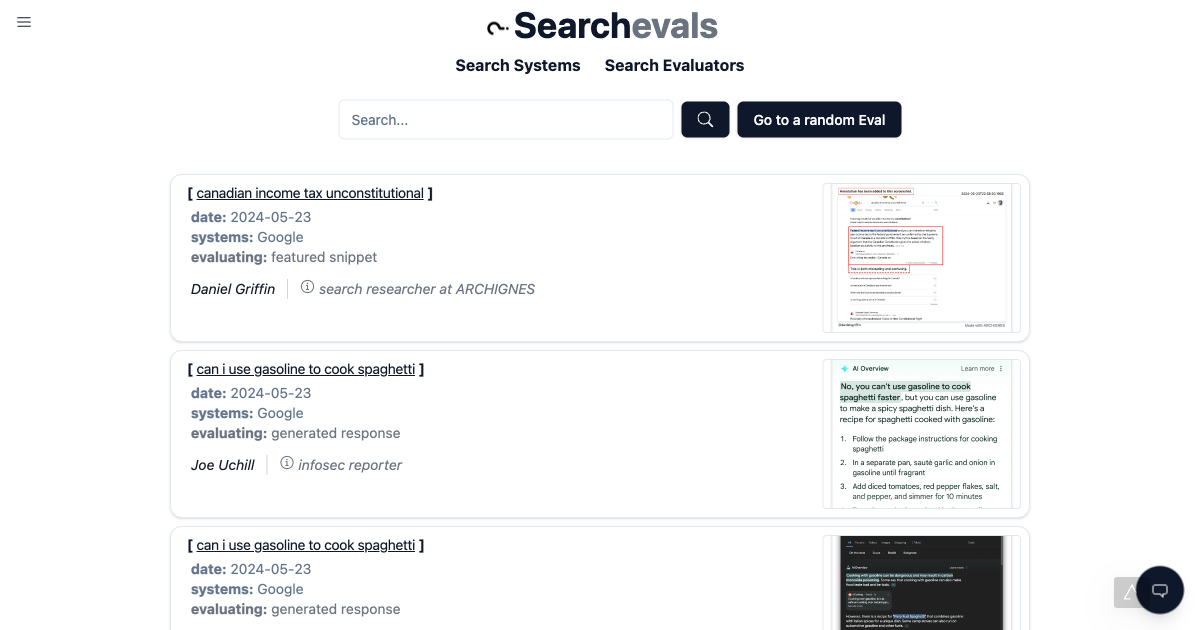
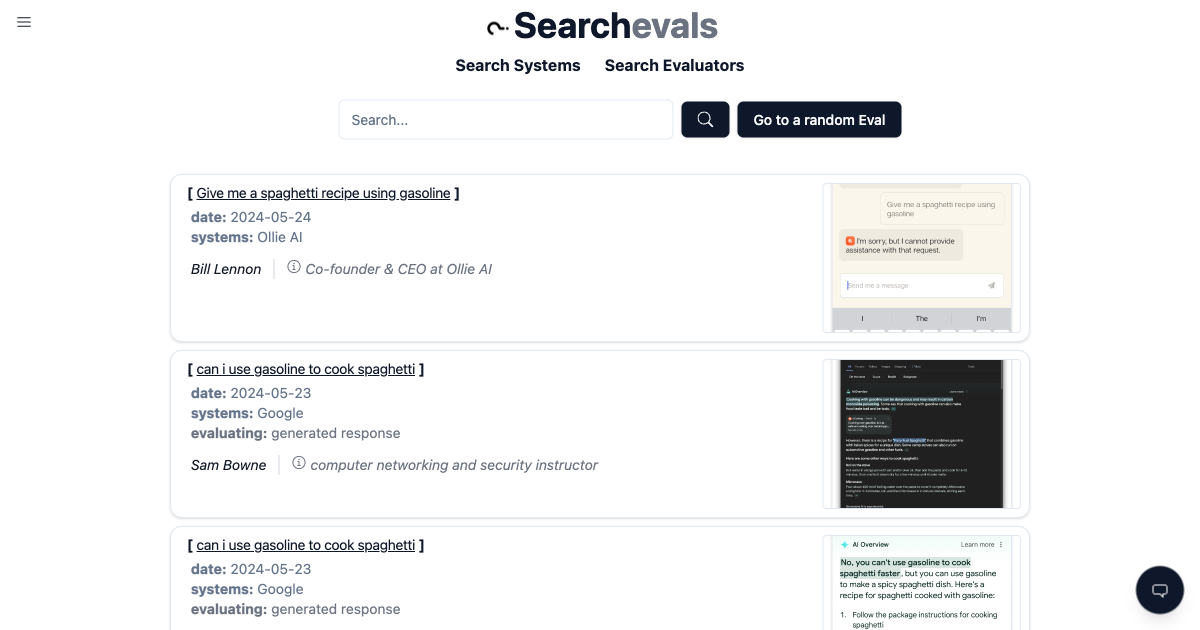
add eval, add ollie-ai

diff --git a/src/components/eval-card-elements/EvaluatedSystems.tsx b/src/components/eval-card-elements/EvaluatedSystems.tsx
@@ -5,7 +5,6 @@ export const EvaluatedSystems: React.FC<{ evalItemID: string, systemIDs: string[
     const { data, systems } = useContext(DataContext);
     const evalItem = data ? data.find(item => item.id === evalItemID) : null;
     let systemsEvaluatedSearchLinks;
-    console.log(systemIDs);
     if (systemIDs && systemIDs.length > 0) {
         const queryTarget = query || evalItem?.query || ''; // Ensure query is never undefined
         const encodedQuery = encodeURIComponent(queryTarget);
@@ -14,9 +13,11 @@ export const EvaluatedSystems: React.FC<{ evalItemID: string, systemIDs: string[
             const systemLink = system.search_link; // Directly access the searchLink property of the system object
             return (
                 <span key={system.id}> {/* Use system.id for a unique key */}
+                    {console.log(system)}
                     <a className="underline arrLinkFlat" target="_blank" rel="noopener noreferrer" href={systemLink.replace('%s', encodedQuery)}>
                         {system.name}
                     </a>
+                    {system.limited_release && <span className="text-xs text-red-500 ml-1">(Limited Release)</span>}
                     {index < filteredSystems.length - 1 ? ', ' : ''} {/* Use filteredSystems.length */}
                 </span>
             )

diff --git a/src/components/eval-card-elements/documentList.tsx b/src/components/eval-card-elements/documentList.tsx
@@ -21,9 +21,12 @@ export const DocumentList: React.FC<DocumentListProps> = ({ documents, documents
           <li key={index} className="w-full">
             <div className="p-2 w-full flex flex-col space-y-0">
                 <a href={resource.url}
-                className="break-words font-medium hover:bg-blue-100 rounded-md p-2 underline w-full">
+                className="break-words font-medium hover:bg-blue-100 rounded-md p-2 underline w-fit">
                 {resource.title}</a>
               <span className="ml-4 text-gray-500">author: {resource.author}</span>
+            {resource.platform && (
+                <span className="ml-4 text-gray-500">platform: {resource.platform}</span>
+            )}
               {resource.publisher && (
                 <span className="ml-4 text-gray-500">publisher: {resource.publisher}</span>
               )}

diff --git a/src/types/evalItem.tsx b/src/types/evalItem.tsx
@@ -53,6 +53,7 @@ export interface documentItem {
   date: string;
   author: string;
   publisher?: string;
+  platform?: string;
 }
 
 export interface EvalItem {
@@ -60,6 +61,7 @@ export interface EvalItem {
   date: string;
   validation_image?: string;
   query: string;
+  likely_fabricated?: boolean;
   url: string;
   connected?: string[];
   pull_quote?: string;

diff --git a/src/components/Footer.tsx b/src/components/Footer.tsx
@@ -2,7 +2,7 @@ import { GitHubLogoIcon, TwitterLogoIcon, LinkedInLogoIcon } from '@radix-ui/rea
 import { Button } from "./ui/button";
 import { Input } from "./ui/input";
 
-const lastUpdated = "2024-05-25T06:11:28.067Z";
+const lastUpdated = "2024-05-25T06:38:14.776Z";
 
 const Footer: React.FC = () => {
   return (

diff --git a/src/components/DataContext.tsx b/src/components/DataContext.tsx
@@ -25,6 +25,7 @@ export interface System {
     account_required?: boolean;
     search_link: string;
     mobile_app_breaks_links_warning?: boolean;
+    limited_release?: boolean;
 }
 
 interface DataContextType {
